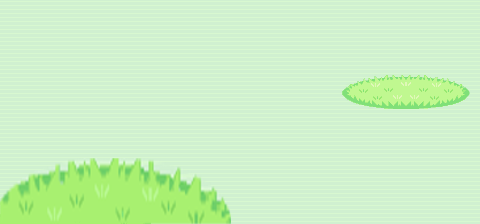
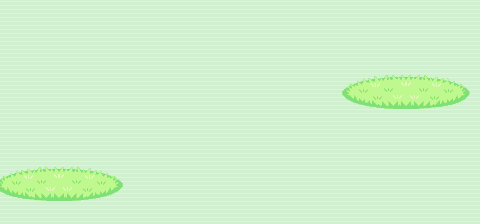
pokemon

Changed region(s): [[0.0, 0.6875, 0.5, 1.0]]

diff --git a/IMPLEMENTACOES/aulaes/pokemon/src/components/pokearena/PokeArena.jsx b/IMPLEMENTACOES/aulaes/pokemon/src/components/pokearena/PokeArena.jsx
@@ -15,7 +15,7 @@ export default class PokeArena extends Component {
         //{ id: 108, nome: 'lickitung', life: 100 },
         { id: 110, nome: 'weezing', life: 100 },
         { id: 112, nome: 'rhydon', life: 100 }]
-        this.state = { pokeball: [], desafiantes: equipeRocket, escolhido: 0, desafiante: 0, mensagem: '', atacarBtn:true }
+        this.state = { pokeball: [], desafiantes: equipeRocket, escolhido: 0, desafiante: 0, mensagem: '', atacarBtn: true }
         this.mudarEscolhido = this.mudarEscolhido.bind(this)
 
     }
@@ -26,16 +26,16 @@ export default class PokeArena extends Component {
             this.setState({ pokeball: pokeball })
         }
 
-        this.setState({mensagem:'A batalha vai começar!'})
+        this.setState({ mensagem: 'A batalha vai começar!' })
     }
 
     renderizarPokeball() {
         return this.state.pokeball.map(
             (pokemon, i) => {
-                return <PokemonTableRow id={pokemon.id} key={i} nome={pokemon.nome} 
-                                        life={pokemon.life} mudarEscolhido={this.mudarEscolhido}
-                                        index={i}
-                                        jogador={true}/>
+                return <PokemonTableRow id={pokemon.id} key={i} nome={pokemon.nome}
+                    life={pokemon.life} mudarEscolhido={this.mudarEscolhido}
+                    index={i}
+                    jogador={true} />
             }
         )
     }
@@ -54,104 +54,110 @@ export default class PokeArena extends Component {
 
         return (
             <>
-            <table style={{ width: '470px',margin:'auto'}} background={background}>
-                <tbody>
-                    <tr>
-                        <td style={{ textAlign: "right" }}>
-                            <span style={{ textTransform: "capitalize" }}>
-                                <b>{desafiante.nome} ({desafiante.life}/100)</b>
-                            </span>
-                            <img src={imgURLDesafiante} alt={desafiante.nome} />
-
-                        </td>
-                    </tr>
-                    <tr>
-                        <td style={{ padding: 4 }}>
-                            <img src={imgURLEscolhido} alt={escolhido.nome} />
-                            <span style={{ textTransform: "capitalize" }}>
-                                <b>{escolhido.nome} ({escolhido.life}/100)</b>
-                            </span>
-                        </td>
-                    </tr>
-                    <tr>
-                        <td style={{ textAlign: "center", backgroundColor:"white"}}>
-                            <button className="btn btn-secondary" onClick={()=>this.atacar()} disabled={!this.state.atacarBtn}>Atacar</button>
-                        </td>
-                    </tr>
-                </tbody>
-            </table>
-            <div className="alert alert-warning" role="alert" style={{marginTop:10,textTransform:'uppercase'}}>
-                {this.state.mensagem}
-            </div>
+                <div className="row" style={{ background: `url(${background}) no-repeat center center`}}>
+                    <div className="col-12">
+                        <div className="row">
+                            <div className="col-12 text-right">
+                                <span style={{ textTransform: "capitalize" }}>
+                                    <b>{desafiante.nome} ({desafiante.life}/100)</b>
+                                </span>
+                                <img src={imgURLDesafiante} alt={desafiante.nome} />
+                            </div>
+                        </div>
+                        <div className="row">
+                            <div className="col-12 text-left">
+                                <img src={imgURLEscolhido} alt={escolhido.nome} />
+                                <span style={{ textTransform: "capitalize" }}>
+                                    <b>{escolhido.nome} ({escolhido.life}/100)</b>
+                                </span>
+                            </div>
+                        </div>
+                    </div>
+                </div>
+                <div className="row">
+                    <div className="col-12 text-center" style={{padding:'0.5em'}}>
+                        <button className="btn btn-secondary" 
+                                onClick={() => this.atacar()} 
+                                disabled={!this.state.atacarBtn}>
+                                    Atacar
+                        </button>
+                    </div>
+                </div>
+                <div className="row">
+                    <div className="col-12">
+                        <div className="alert alert-warning" role="alert" style={{textTransform: 'uppercase' }}>
+                            {this.state.mensagem}
+                        </div>
+                    </div>
+                </div>
             </>
         )
-
 
     }
 
     renderizarDesafiantes() {
         return this.state.desafiantes.map(
             (pokemon, i) => {
-                return <PokemonTableRow id={pokemon.id} 
-                                        key={i} nome={pokemon.nome} 
-                                        life={pokemon.life}
-                                        jogador={false} />
+                return <PokemonTableRow id={pokemon.id}
+                    key={i} nome={pokemon.nome}
+                    life={pokemon.life}
+                    jogador={false} />
             }
         )
     }
 
-    mudarEscolhido(index){
+    mudarEscolhido(index) {
         //console.log(index)
-        this.setState({escolhido:index})
+        this.setState({ escolhido: index })
     }
 
-    async atacar(){
-        this.setState({atacarBtn:false})
+    async atacar() {
+        this.setState({ atacarBtn: false })
         //await delay(5000);
         let escolhido = this.state.pokeball[this.state.escolhido]
         let desafiante = this.state.desafiantes[this.state.desafiante]
 
-        this.setState({mensagem:`${escolhido.nome} atacou! 20 de dano!`})
+        this.setState({ mensagem: `${escolhido.nome} atacou! 20 de dano!` })
         await delay(1000);
-        desafiante.life = (desafiante.life - 20)<0 ? 0 : desafiante.life - 20
-        if(desafiante.life===0){
-            this.setState({mensagem:`${desafiante.nome} desmaiou!`})
+        desafiante.life = (desafiante.life - 20) < 0 ? 0 : desafiante.life - 20
+        if (desafiante.life === 0) {
+            this.setState({ mensagem: `${desafiante.nome} desmaiou!` })
             await delay(1000);
             const index = this.proximoDesafiante()
-            if(index>=0){
-                this.setState({desafiante:index})
+            if (index >= 0) {
+                this.setState({ desafiante: index })
                 desafiante = this.state.desafiantes[this.state.desafiante]
-                this.setState({mensagem:`${desafiante.nome} tomou seu lugar!`})
-                await delay(1000);  
-            }else{
-                this.setState({mensagem:`Parabéns, você venceu!`})
-                await delay(1000); 
+                this.setState({ mensagem: `${desafiante.nome} tomou seu lugar!` })
+                await delay(1000);
+            } else {
+                this.setState({ mensagem: `Parabéns, você venceu!` })
+                await delay(1000);
                 this.reiniciarDesafiantes()
-                this.setState({mensagem:`A batalha recomeça!`})
-                await delay(1000); 
+                this.setState({ mensagem: `A batalha recomeça!` })
+                await delay(1000);
             }
         }
-        this.setState({atacarBtn:true})
+        this.setState({ atacarBtn: true })
     }
 
-    proximoDesafiante(){
+    proximoDesafiante() {
         let desafiantes = this.state.desafiantes
 
         for (let index = 0; index < desafiantes.length; index++) {
             const desafiante = desafiantes[index];
-            if(desafiante.life>0) return index
+            if (desafiante.life > 0) return index
         }
         return -1
     }
 
-    reiniciarDesafiantes(){
+    reiniciarDesafiantes() {
         let desafiantes = this.state.desafiantes
 
         for (let index = 0; index < desafiantes.length; index++) {
             const desafiante = desafiantes[index];
             desafiante.life = 100;
         }
-        this.setState({desafiante:0})
+        this.setState({ desafiante: 0 })
     }
 
     render() {
@@ -163,37 +169,22 @@ export default class PokeArena extends Component {
                 justifyContent: 'center',
                 flexDirection: 'column'
             }}>
-                <table className="table table-bordered" style={{ marginTop: 20, width: '71%' }}>
-                    <thead className="thead-dark">
-                        <tr>
-                            <th style={{ textAlign: "center" }}>Pokeball</th>
-                            <th style={{ textAlign: "center" }}>Arena</th>
-                            <th style={{ textAlign: "center" }}>Desafiantes</th>
-                        </tr>
-                    </thead>
-                    <tbody>
-                        <tr>
-                            <td style={{ width: '10%' }}>
-                                <table>
-                                    <tbody>
-                                    {this.renderizarPokeball()}
-                                    </tbody>
-                                </table>
-                            </td>
-                            <td>
-                                {this.renderizarArena()}
-                            </td>
-                            <td style={{ width: '10%' }}>
-                                <table>
-                                    <tbody>
-                                    {this.renderizarDesafiantes()}
-                                    </tbody>
-                                </table>
-                            </td>
-                        </tr>
-                    </tbody>
-                </table>
+                <h3>Batalha Pokémon</h3>
+                <div className='container' style={{ width: '70%', marginTop: '1em', border: '1px solid #cecece' }}>
+                    <div className="row">
+                        <div className='col-2' style={{ padding: '0.5em' }}>
+                            {this.renderizarPokeball()}
+                        </div>
+                        <div className='col-8' style={{ borderLeft: '1px solid #cecece', borderRight: '1px solid #cecece', paddingTop: '2em' }}>
+                            {this.renderizarArena()}
+                        </div>
+                        <div className='col-2' style={{ padding: '0.5em' }}>
+                            {this.renderizarDesafiantes()}
+                        </div>
+                    </div>
+                </div>
             </div>
         )
+
     }
 }

diff --git a/IMPLEMENTACOES/aulaes/pokemon/src/components/pokearena/PokemonTableRow.jsx b/IMPLEMENTACOES/aulaes/pokemon/src/components/pokearena/PokemonTableRow.jsx
@@ -10,7 +10,7 @@ export default class PokemonTableRow extends Component {
             return (
                 <button className='btn btn-outline-light' 
                         onClick={() => this.props.mudarEscolhido(this.props.index)}
-                        style={{padding:0,margin:0,borderRadius:0}}>
+                        style={{padding:0,margin:0,borderRadius:0,border:'none'}}>
                     <img src={this.props.id <= 10090 ? imgURL : missingno} alt={this.props.id} />
                 </button>
             )
@@ -23,11 +23,11 @@ export default class PokemonTableRow extends Component {
     render() {
         
         return (
-            <tr>
-                <td style={{ textAlign: "center", padding: 0 }}>
+            <div className='row'>
+                <div className='col-12 text-center'>
                     {this.renderizarCelula()}
-                </td>
-            </tr>
+                </div>
+            </div>
         )
     }
 }
